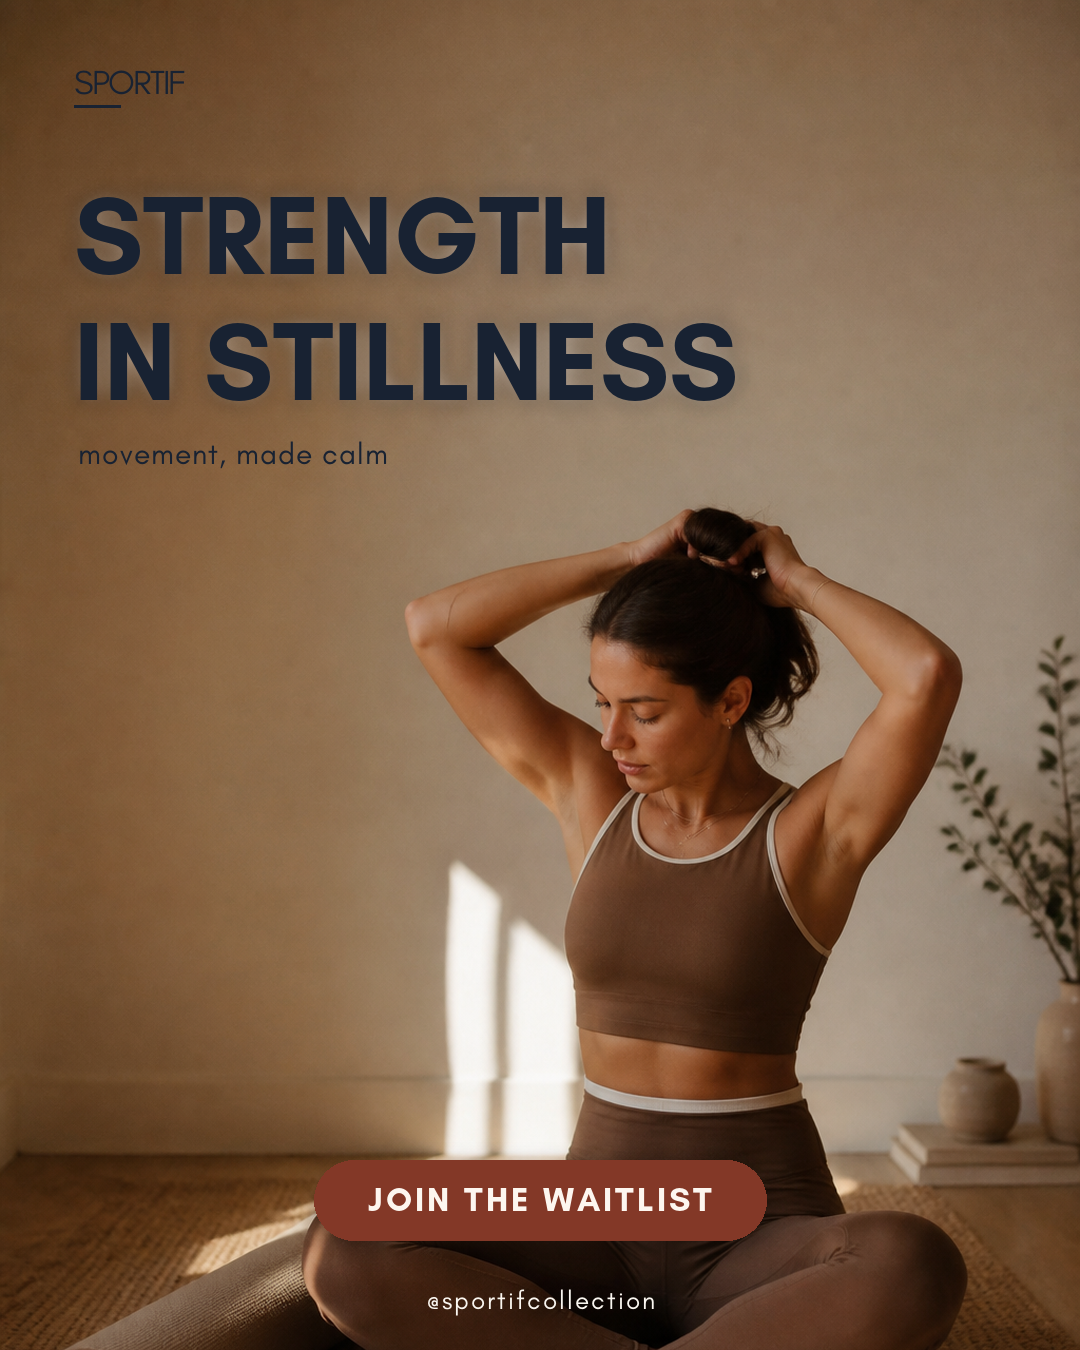
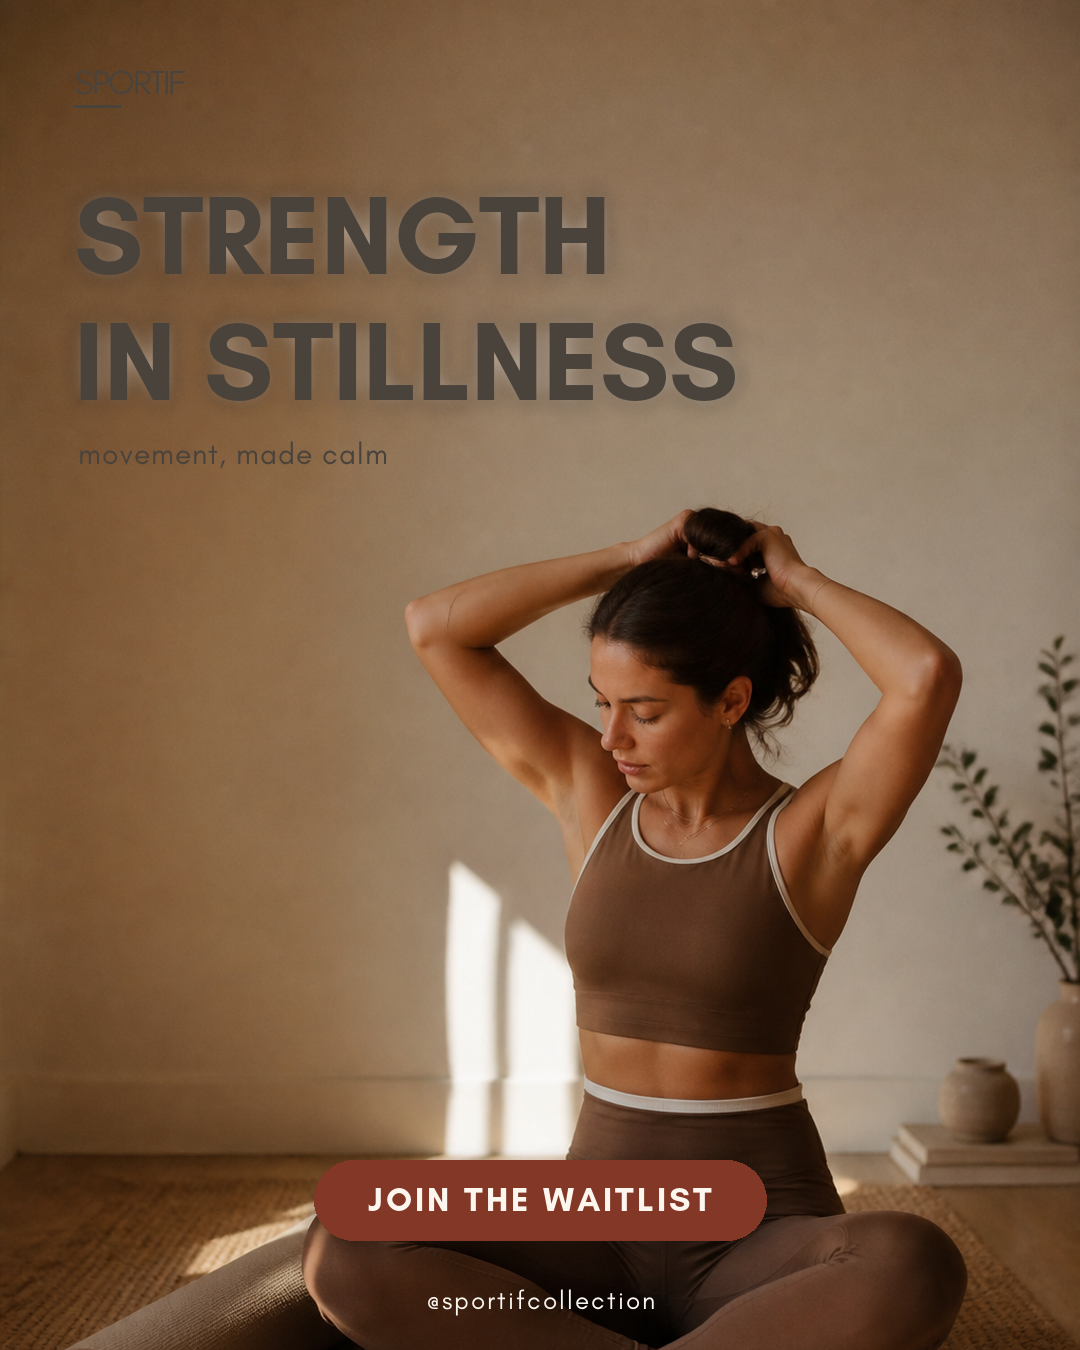
IG ad: switch type from navy to warm charcoal (#4A433C)
Navy fought the warm palette; warm charcoal sits in it and ties to the terracotta CTA.

diff --git a/clients/sportif/scripts-local/ad_lifestyle.py b/clients/sportif/scripts-local/ad_lifestyle.py
@@ -17,7 +17,7 @@ BOLD = str(FDIR / 'GlacialIndifference-Bold.otf')
 REG  = str(FDIR / 'GlacialIndifference-Regular.otf')
 FE = ROOT / 'clients/sportif/generated/images/fresh-explore'
 
-NAVY = (24, 34, 50); CREAMW = (253, 246, 239); TERRA = (131, 56, 39)
+NAVY = (74, 67, 60); CREAMW = (253, 246, 239); TERRA = (131, 56, 39)  # NAVY now warm charcoal #4A433C
 
 def fit(draw, text, path, target_w):
     lo, hi = 10, 400